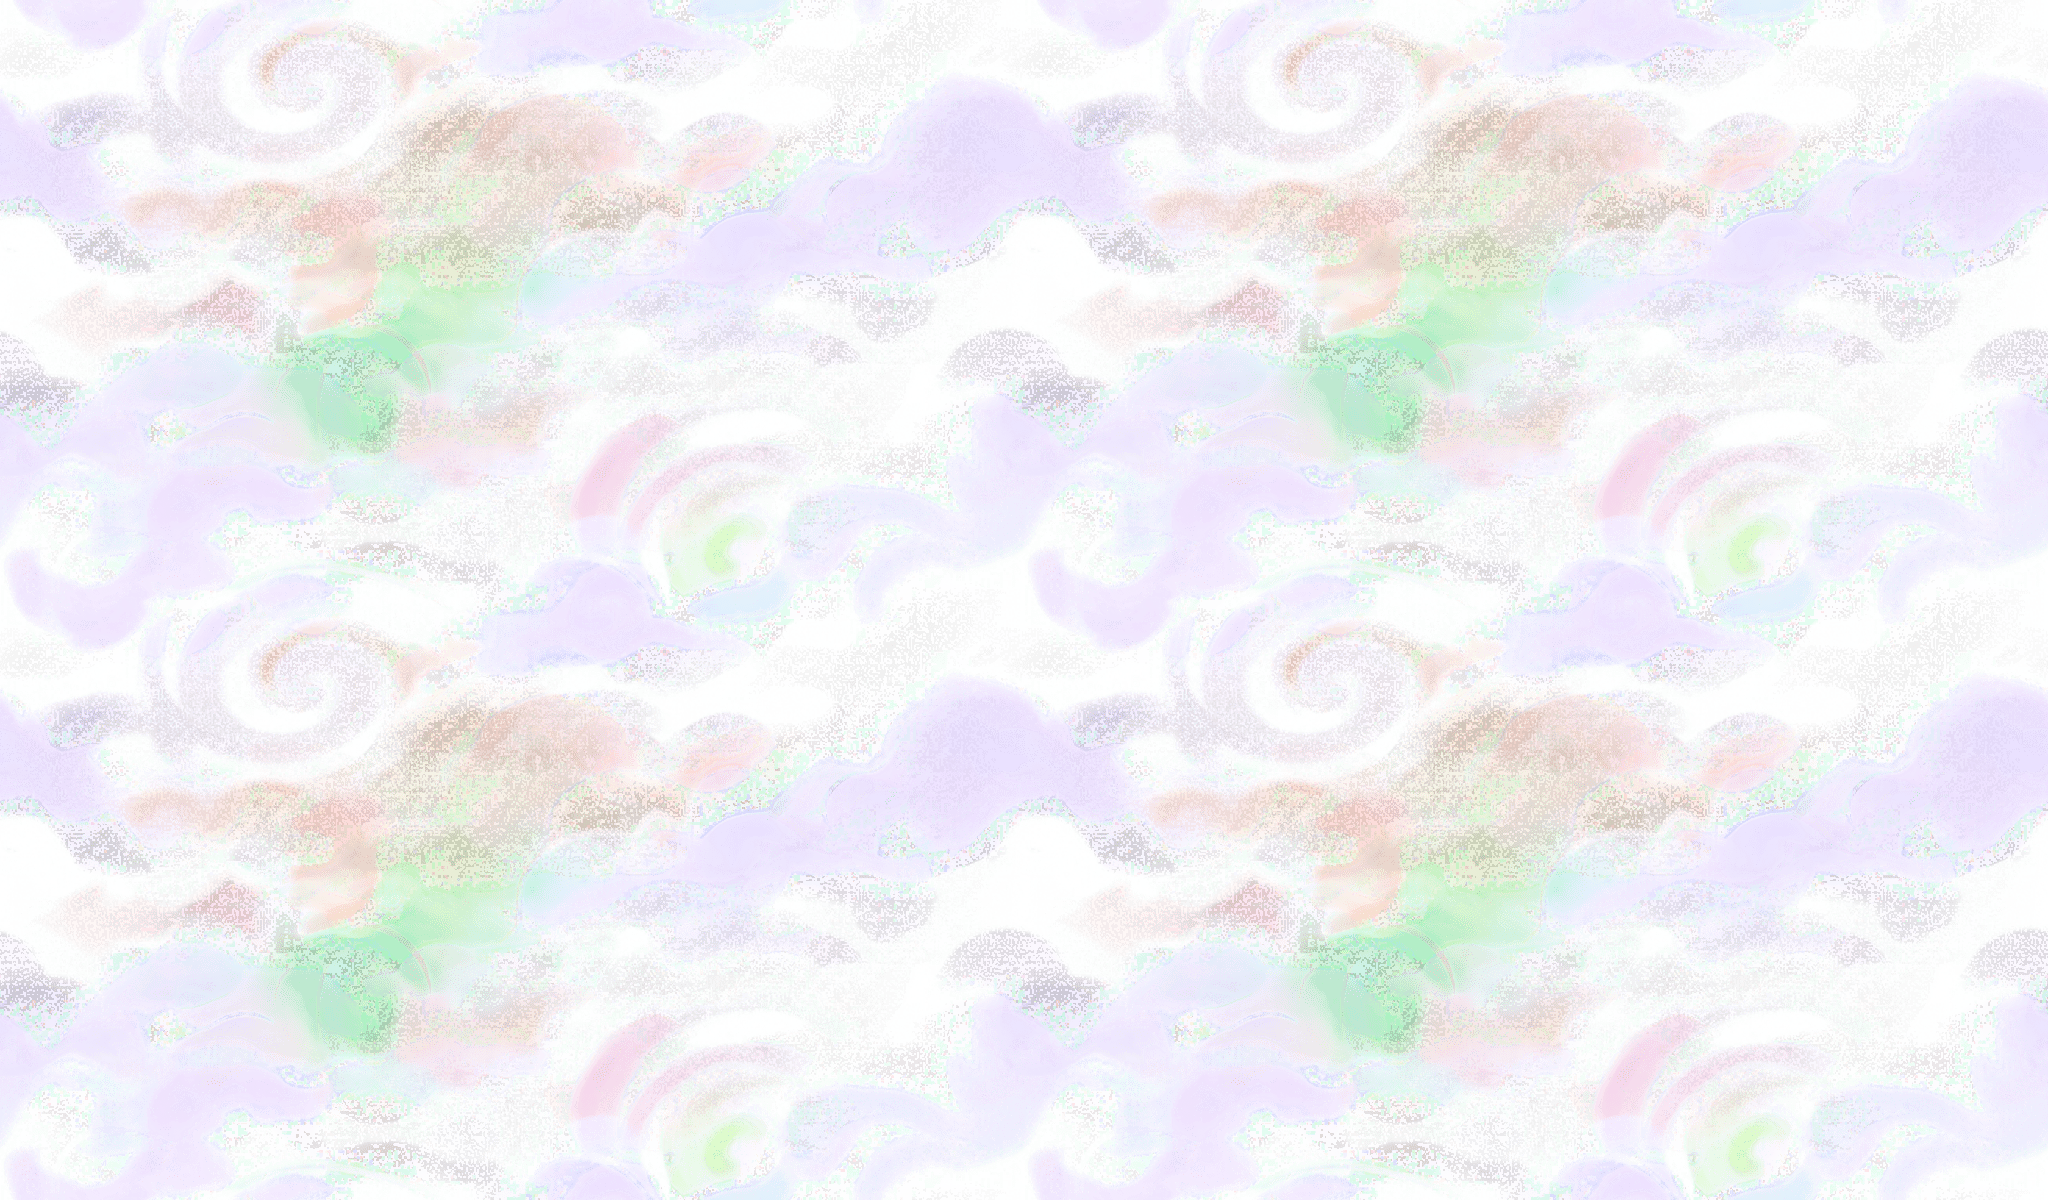
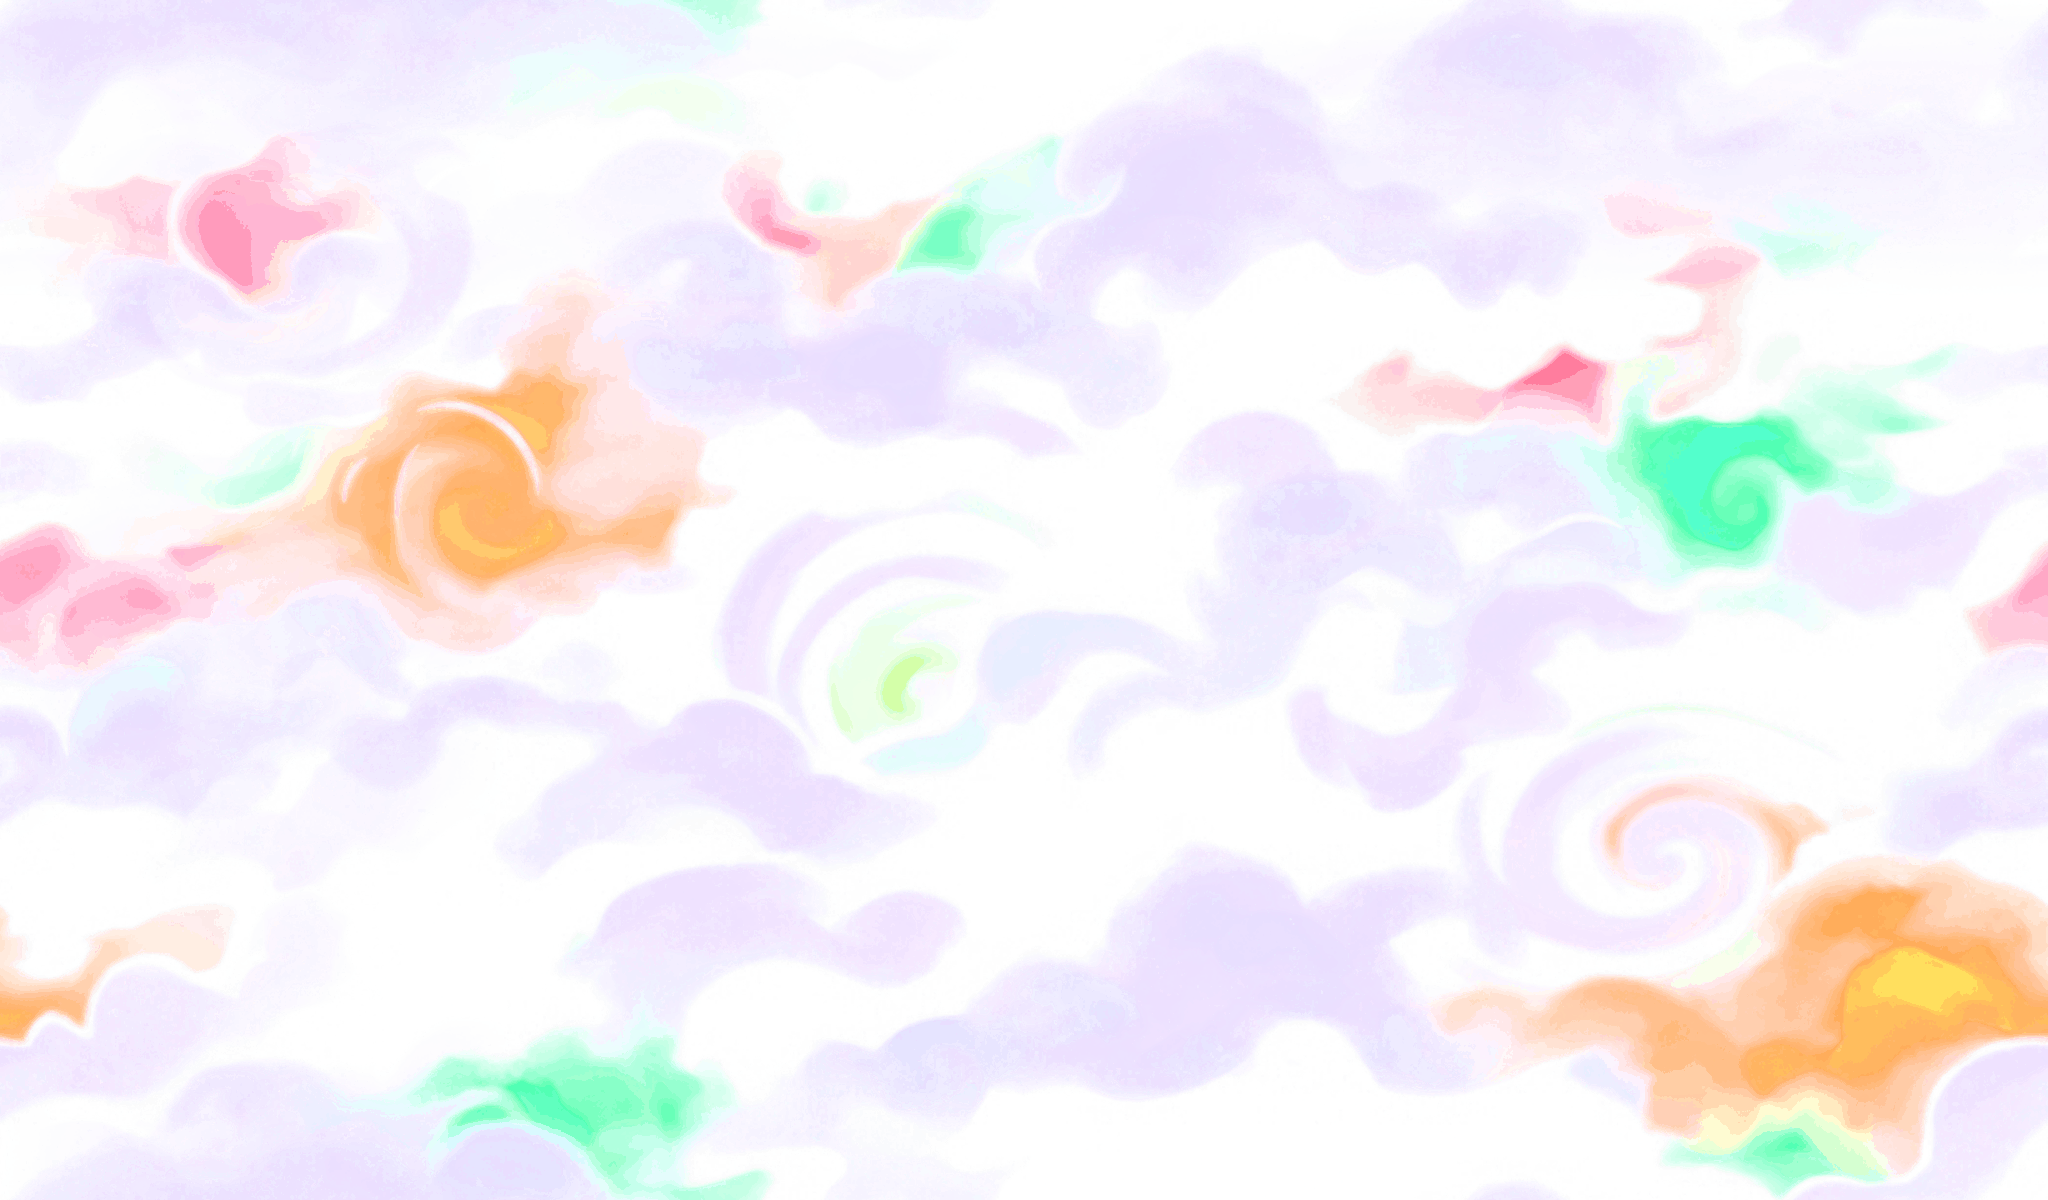
halloween: export 34 spec PNGs to final/halloween-2026
All map, house, character, trail UI and shop assets at spec names and
sizes, plus hw26-map-lots.json with the 12 lot positions. Fixes found in
QC: avatar/bust framing per character, fog grain (tile before alpha,
no dithering), fog/meter tiling via overlap cross-fade. Review boards:
final_overview, round2 popup/shop and G3 options.

Claude-Session: https://claude.ai/code/session_013HbFSBnr4hEbWxBe4vtSbq

diff --git a/tools/hw_export.py b/tools/hw_export.py
@@ -77,30 +77,41 @@ def alpha_from_black(im, gain=1.0, max_alpha=1.0):
     rgb = np.asarray(im.convert("RGB"), dtype=np.float32) / 255
     a = np.clip(rgb.max(axis=2) * gain, 0, 1)
     col = np.where(a[..., None] > 1e-3, np.clip(rgb * gain / np.maximum(a[..., None], 1e-3), 0, 1), 0)
+    # near-transparent pixels: un-premultiplying amplifies noise into random colours, so
+    # fade them toward their brightness-matched grey (invisible at that alpha anyway)
+    w = np.clip(a / 0.15, 0, 1)[..., None]
+    col = col * w + col.mean(axis=2, keepdims=True) * (1 - w)
     out = np.dstack([col, a * max_alpha])
     return Image.fromarray((out * 255).round().astype(np.uint8), "RGBA")
 
 
-def seamless(im, axis="xy"):
-    """Make a texture tile: cross-fade it with a half-offset copy of itself. At the edges the
-    result is the offset copy, whose edge pixels were neighbours in the middle of the original."""
+def seamless(im, axis="xy", overlap=0.2):
+    """Make a texture tile by overlap cross-fade: the last `overlap` of the image is faded
+    into the first part and then dropped, so the right edge continues straight into the left
+    with no duplicated content. The result is resized back to the input size."""
+    size = im.size
     arr = np.asarray(im.convert("RGBA"), dtype=np.float32)
-    h, w = arr.shape[:2]
-    if "x" in axis:
-        t = 1 - np.abs(np.linspace(-1, 1, w))[None, :, None]
-        arr = arr * t + np.roll(arr, w // 2, axis=1) * (1 - t)
-    if "y" in axis:
-        t = 1 - np.abs(np.linspace(-1, 1, h))[:, None, None]
-        arr = arr * t + np.roll(arr, h // 2, axis=0) * (1 - t)
-    return Image.fromarray(arr.round().astype(np.uint8), "RGBA")
+    for ax, name in ((1, "x"), (0, "y")):
+        if name not in axis:
+            continue
+        n = arr.shape[ax]
+        o = int(n * overlap)
+        t = np.linspace(0, 1, o).reshape((1, o, 1) if ax == 1 else (o, 1, 1))
+        head = arr.take(range(o), axis=ax)
+        tail = arr.take(range(n - o, n), axis=ax)
+        blended = head * t + tail * (1 - t)
+        body = arr.take(range(o, n - o), axis=ax)
+        arr = np.concatenate([blended, body], axis=ax)
+    out = Image.fromarray(arr.round().clip(0, 255).astype(np.uint8), "RGBA")
+    return out.resize(size, Image.LANCZOS)
 
 
-def save(im, rel, quality=(65, 92)):
+def save(im, rel, quality=(65, 92), dither=1.0):
     dst = os.path.join(OUT, rel)
     os.makedirs(os.path.dirname(dst), exist_ok=True)
     rgba = im.convert("RGBA")
     try:
-        q = imagequant.quantize_pil_image(rgba, dithering_level=1.0, max_colors=256,
+        q = imagequant.quantize_pil_image(rgba, dithering_level=dither, max_colors=256,
                                           min_quality=quality[0], max_quality=quality[1])
         q.save(dst, optimize=True)
         how = "quantized"
@@ -124,8 +135,8 @@ def fog():
     im = Image.open(src(f"{R2}/fog/1")).convert("RGB")
     w = round(im.height * 2048 / 1200)
     im = im.crop(((im.width - w) // 2, 0, (im.width - w) // 2 + w, im.height)).resize((2048, 1200), Image.LANCZOS)
-    rgba = alpha_from_black(im, gain=1.6, max_alpha=0.85)  # "a bit transparent"
-    return seamless(rgba)
+    # tile while still on black (blending straight-alpha colour amplifies noise), then cut alpha
+    return alpha_from_black(seamless(im).convert("RGB"), gain=1.6, max_alpha=0.85)  # "a bit transparent"
 
 
 def meter_track():
@@ -144,10 +155,9 @@ def meter_track():
 
 def meter_fill():
     im = Image.open(src(f"{R2}/meter/fill")).convert("RGB")
-    rgba = alpha_from_black(im, gain=1.4)
-    b = bbox(rgba)
-    band = rgba.crop((im.width // 8, b[1], im.width - im.width // 8, b[3]))
-    return seamless(band.resize((1200, 48), Image.LANCZOS), axis="x")
+    b = bbox(alpha_from_black(im, gain=1.4))
+    band = im.crop((im.width // 8, b[1], im.width - im.width // 8, b[3])).resize((1200, 48), Image.LANCZOS)
+    return alpha_from_black(seamless(band, axis="x").convert("RGB"), gain=1.4)
 
 
 def house_glow():
@@ -168,21 +178,31 @@ def g3():
     return shadow
 
 
-def character(rel):
+# Per-character framing, as fractions of the full figure's bounding box:
+# bust = (top, height) of the square bust crop; avatar = (cx, cy, size) inside the bust.
+FRAMING = {"keeper": {"bust": (0.0, 0.46), "avatar": (0.5, 0.36, 0.62)},
+           "kid": {"bust": (0.0, 0.62), "avatar": (0.5, 0.56, 0.62)}}
+
+
+def character(rel, name):
     """full (800x1200), bust (600x600), avatar (128x128) from one cutout."""
     im = cutout(rel)
     im = im.crop(bbox(im))
     full = place(im, (800, 1200), (760, 1170), anchor="bottom", bottom_pad=10)
     fb = bbox(full)
-    # bust: square from just above the top of the figure, ~45% of figure height
-    side = int((fb[3] - fb[1]) * 0.45)
+    fh = fb[3] - fb[1]
+    top, frac = FRAMING[name]["bust"]
+    side = int(fh * frac)
     cx = (fb[0] + fb[2]) // 2
-    bust_box = (cx - side // 2, fb[1] - 10, cx + side // 2, fb[1] - 10 + side)
+    y0 = fb[1] + int(fh * top) - 10
     bust = Image.new("RGBA", (side, side), (0, 0, 0, 0))
-    bust.alpha_composite(full.crop(bust_box))
+    bust.alpha_composite(full.crop((cx - side // 2, y0, cx + side // 2, y0 + side)))
     bust = bust.resize((600, 600), Image.LANCZOS)
-    av_side = int(side * 0.62)
-    av = bust.crop(((600 - av_side * 600 // side) // 2, 0, (600 + av_side * 600 // side) // 2, av_side * 600 // side))
+    ax, ay, asz = FRAMING[name]["avatar"]
+    a = int(600 * asz)
+    l, t = int(600 * ax - a / 2), int(600 * ay - a / 2)
+    av = Image.new("RGBA", (a, a), (0, 0, 0, 0))
+    av.alpha_composite(bust.crop((max(l, 0), max(t, 0), min(l + a, 600), min(t + a, 600))), (max(-l, 0), max(-t, 0)))
     return full, bust, av.resize((128, 128), Image.LANCZOS)
 
 
@@ -204,9 +224,9 @@ def build():
     for name, rel in (("keeper", f"{R1}/keeper/B"), ("kid", f"{R1}/kid/A")):
         parts = {}
         for part in ("full", "bust", "avatar"):
-            def fn(part=part, rel=rel, parts=parts):
+            def fn(part=part, rel=rel, parts=parts, name=name):
                 if not parts:
-                    parts.update(zip(("full", "bust", "avatar"), character(rel)))
+                    parts.update(zip(("full", "bust", "avatar"), character(rel, name)))
                 return parts[part]
             yield f"char/hw26-{name}-{part}.png", fn
     for n, rel in ITEMS.items():
@@ -219,4 +239,6 @@ if __name__ == "__main__":
     for rel, fn in build():
         if only and not any(rel.startswith(o) for o in only):
             continue
-        save(fn(), rel, quality=(0, 95) if rel.startswith("map/hw26-map") else (65, 92))
+        q = (0, 95) if rel.startswith("map/hw26-map") else (65, 92)
+        # dithering shows as grain on soft semi-transparent textures
+        save(fn(), rel, quality=q, dither=0.0 if rel in ("map/hw26-fog.png", "meter/hw26-meter-fill.png") else 1.0)

diff --git a/halloween/docs/03-round2-and-exports.md b/halloween/docs/03-round2-and-exports.md
@@ -1,0 +1,43 @@
+# The Haunted Trail: Step 3, Picks, Round 2 and Spec Exports (images)
+
+## Picks (round 1) → what was made
+
+| Design | Pick | Change requested | Source used for export |
+|---|---|---|---|
+| Map | C | More winding, exactly 12 clearings, spookier | `variants/round2/map/E2` (desktop) · `F1` (mobile) |
+| Fog | B | More dispersed, a bit transparent | `variants/round2/fog/1` → alpha 85%, tileable |
+| Meter | B | — | `variants/round2/meter/{track,fill}` |
+| G3 | C | Witch outfit, more adult | `variants/round2/g3/1` (**please confirm; options 2 and 3 on the board**) |
+| Trail Keeper | B | — | `variants/round1/keeper/B` |
+| Goat Kid | A | — | `variants/round1/kid/A` |
+| Candy | B | Goated logo orange | `variants/round2/candy/orange_logo` |
+| Lantern | A | — | on: `round1/lantern/A` · off: `round2/lantern/off` (edit) |
+| Sold-out | A | — | `round1/soldout/A` |
+| Houses | Z1 A · Z2 B · Z3 A | — | open = the pick; dark/done = edits of the pick |
+| Items | 1A 2A 3B 4A 5C 6B 7B 8C | 1A: rocket → white Goated logo | `round2/item1/logo`, others round 1 |
+
+## How the map was made
+
+The image model kept getting the lot count wrong (13, then 11) and laid the lots out in a line.
+So the layout is now fixed in code: `tools/hw_map_guide.py` draws a winding trail with 12 evenly spaced lots
+(`reference/map_guide_{d,m}.png`), and that guide is passed to the model as a layout sketch. The same script writes
+**`final/halloween-2026/map/hw26-map-lots.json`**, the 12 lot centres in export pixels (desktop 3840×1200,
+mobile 1170×3600) with stop and zone numbers, as the spec requires. The guide is neutral (no zone colours),
+because tinted bands in the guide got copied into the art as flat colour blocks. Two follow-up edits removed
+leftover flat blocks (desktop sky, mobile zone seams).
+
+## Export pipeline (`tools/hw_export.py`)
+
+- Background removal: BiRefNet, then trimmed and placed at the spec size. Houses, characters and G3 are anchored bottom-centre.
+- Characters: full, bust and avatar are cut from **one** cutout, so the character is identical in all three. Each character has its own face framing.
+- Fog: tiled with an overlap cross-fade (no duplicated content; edge-pixel differences ≤ neighbour differences),
+  then converted black → alpha at 85% max opacity. The meter fill uses the same approach horizontally.
+- House glow: generated in code, pure white radial falloff, ready to tint.
+- Compression: libimagequant (the engine TinyPNG uses), no dithering on soft textures.
+- Upscaling: the model's 1K output is Lanczos-upscaled (+ light sharpening) to the export size for the maps and fog.
+  **The full-size maps and fog are softer than native art.** If a crisper map is needed, an upscaler or Nano Banana Pro at 4K would help.
+
+## Still to do (images)
+
+- `modal/hw26-new-zone.png` and `shop/hw26-shop.png`: three options each in `review/round2/popup-shop.png`, waiting on a pick.
+- G3: confirm option 1 (in use) or pick 2 or 3.
